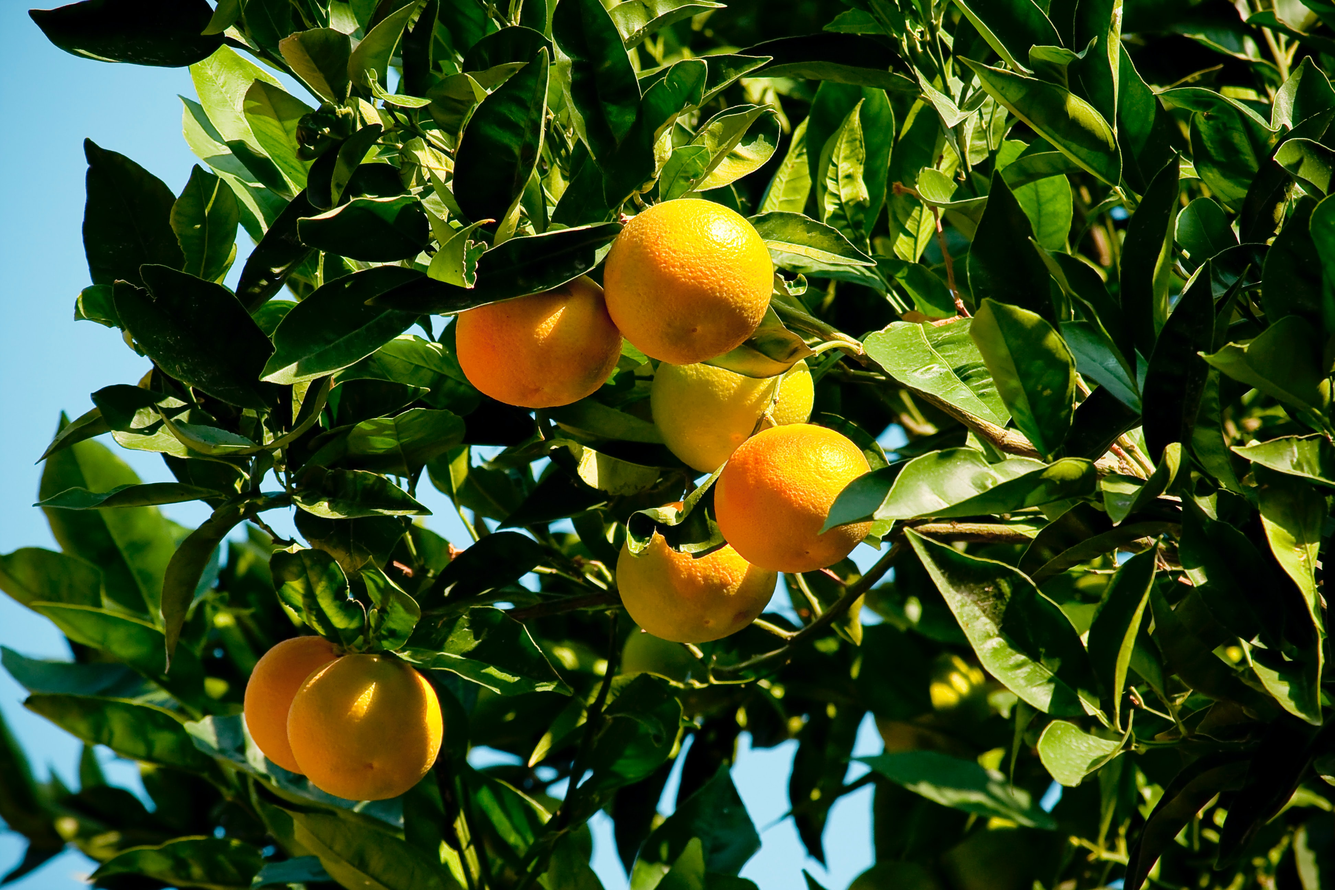
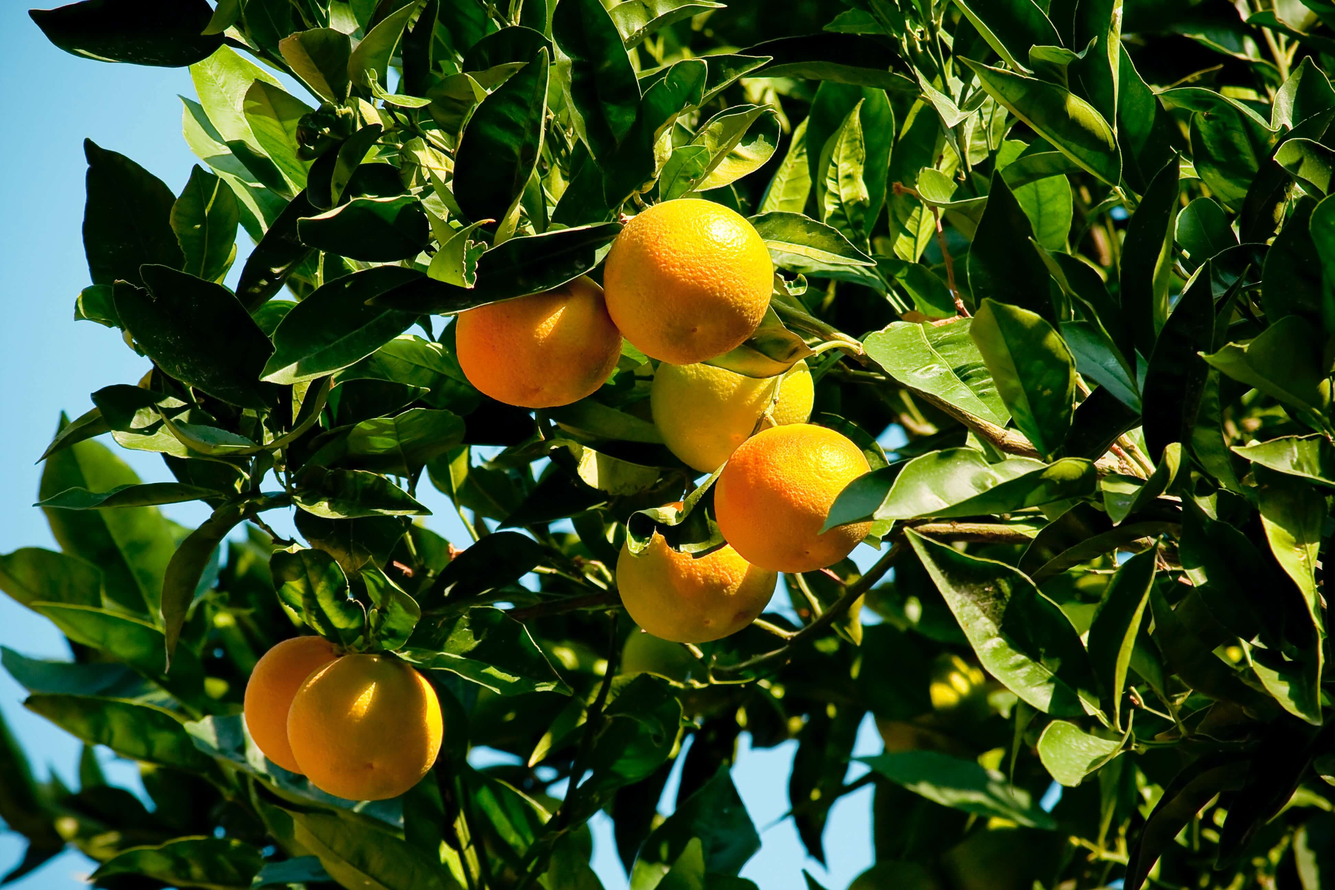
carosel images change

Changed region(s): [[0.5913, 0.5, 0.6535, 0.5312], [0.5291, 0.2188, 0.5602, 0.2812]]

diff --git a/src/components/Home.jsx b/src/components/Home.jsx
@@ -31,10 +31,10 @@ export default function Home() {
             <img src="./assets/orchard2.jpg" className="d-block w-100" alt="banner 1" />
           </div>
           <div className="carousel-item">
-            <img src="./assets/orchard3.jpg" className="d-block w-100" alt="banner 2" />
+            <img src="./assets/orchard5.jpg" className="d-block w-100" alt="banner 2" />
           </div>
           <div className="carousel-item">
-            <img src="./assets/orchard4.jpg" className="d-block w-100" alt="banner 3" />
+            <img src="./assets/orchard6.jpg" className="d-block w-100" alt="banner 3" />
           </div>
         </div>
         <button

diff --git a/src/components/Plant.jsx b/src/components/Plant.jsx
@@ -63,11 +63,7 @@ export default function Plant() {
             Size: {plant.size}
             <i className="fa fa-star"></i>
           </p>
-<<<<<<< Updated upstream
           <h3 className="display-6 fw-bold my-4">$ {plant.price}</h3>
-=======
-          <h3 className="display-6 fw-bold my-4">${plant.price}</h3>
->>>>>>> Stashed changes
           <p className="lead">{plant.commonName}</p>
           <button
             className="btn btn-outline-dark px-4 py-2"
